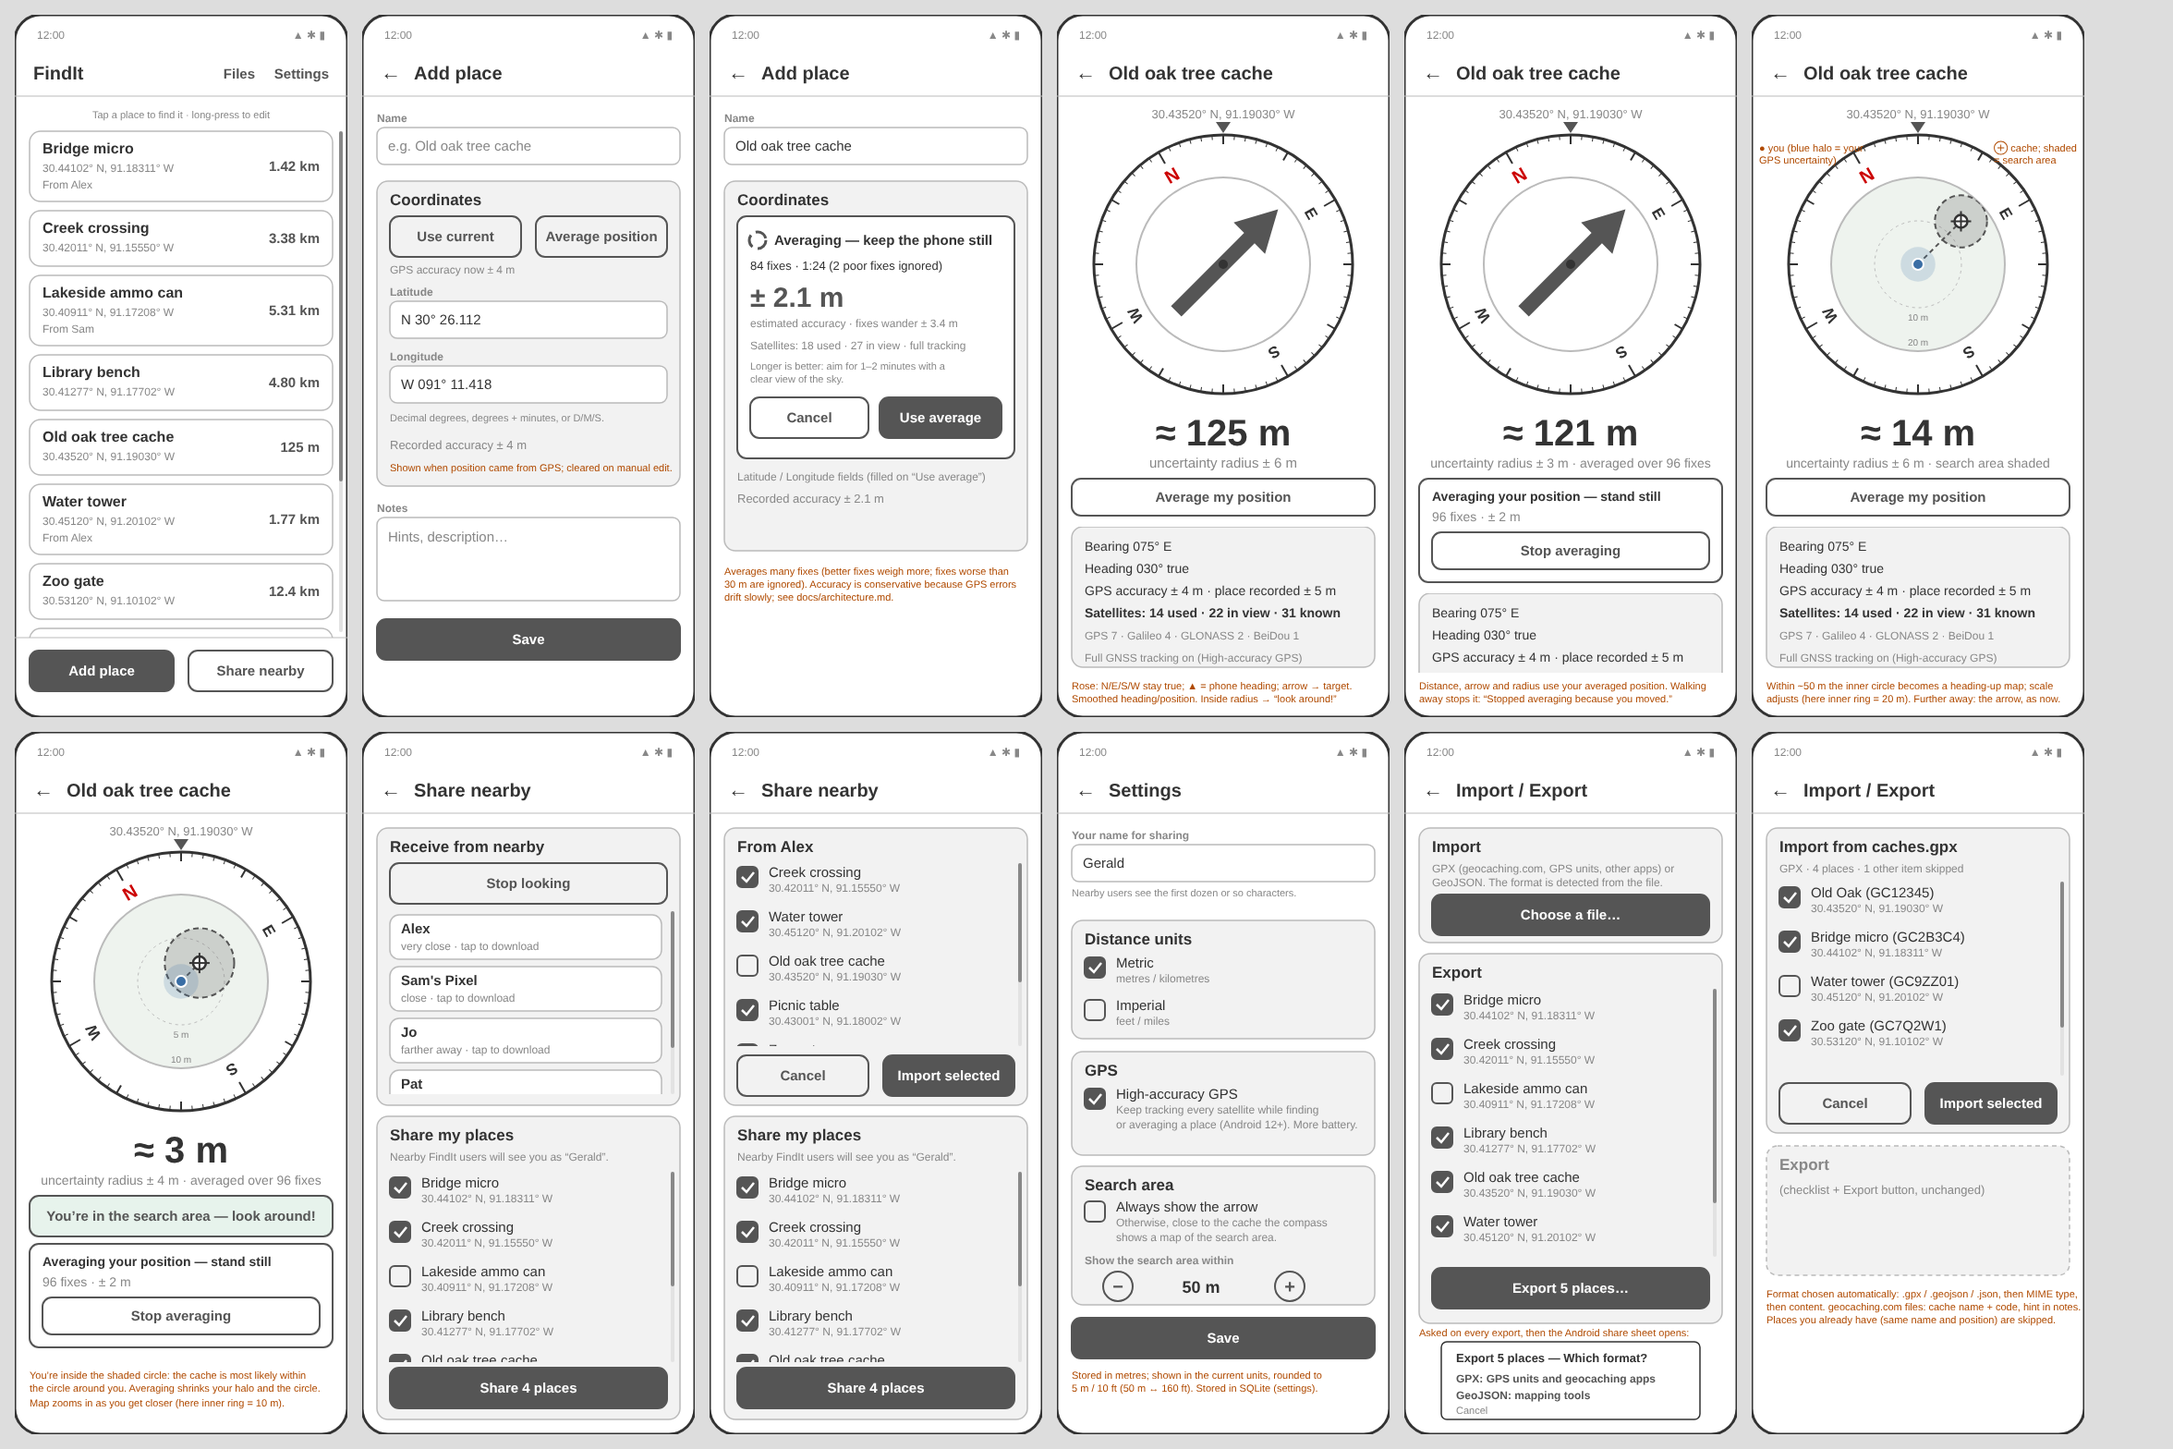
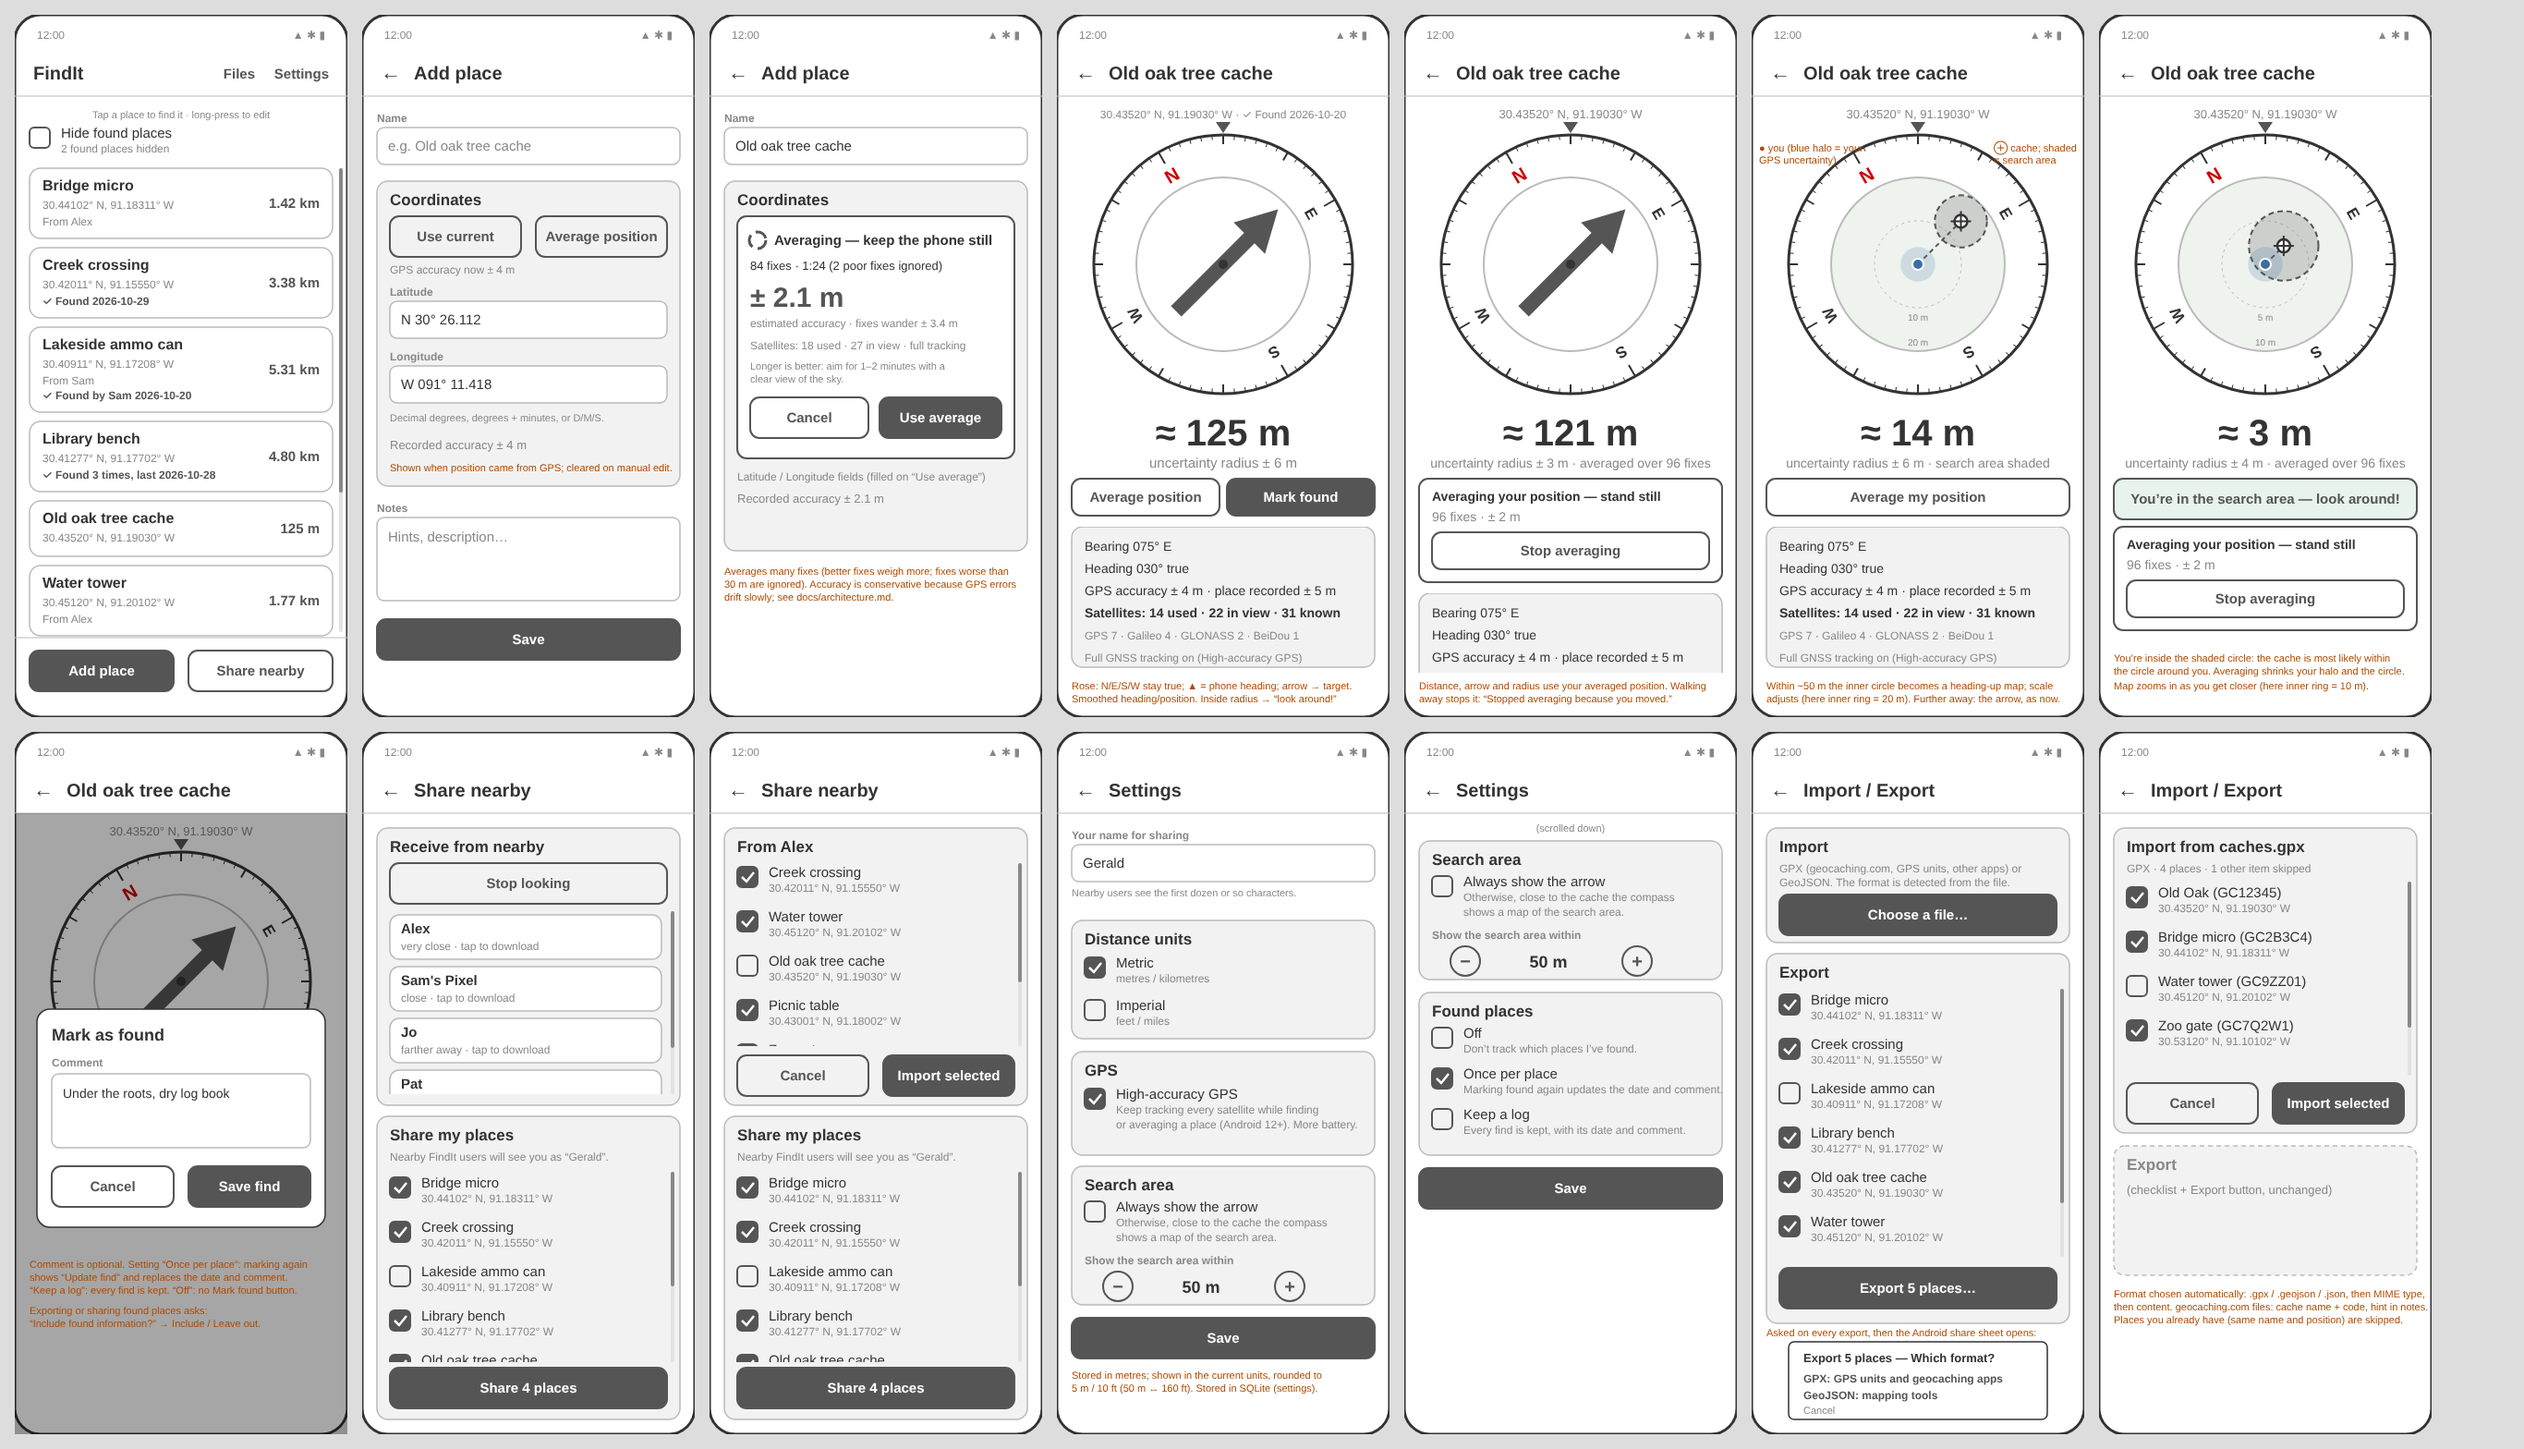
Mark found: wireframes (01, 03, 03e, 06b) and docs
Claude-Session: https://claude.ai/code/session_01AERTiBvDaiu9xFsPWQSBgk

Changed region(s): [[0.0, 0.0, 0.9622, 1.0]]

diff --git a/docs/wireframes/generate_wireframes.py b/docs/wireframes/generate_wireframes.py
@@ -107,29 +107,30 @@ def places():
     s = Screen("FindIt", header_right="Settings", back=False)
     s.header_extra = "Files"
     s.text(W / 2, 112, "Tap a place to find it · long-press to edit", 11, MUTED, anchor="middle")
+    s.checkbox(16, 122, "Hide found places", "2 found places hidden", False)
     rows = [
-        ("Bridge micro", "30.44102° N, 91.18311° W", "From Alex", "1.42 km"),
-        ("Creek crossing", "30.42011° N, 91.15550° W", None, "3.38 km"),
-        ("Lakeside ammo can", "30.40911° N, 91.17208° W", "From Sam", "5.31 km"),
-        ("Library bench", "30.41277° N, 91.17702° W", None, "4.80 km"),
-        ("Old oak tree cache", "30.43520° N, 91.19030° W", None, "125 m"),
-        ("Water tower", "30.45120° N, 91.20102° W", "From Alex", "1.77 km"),
-        ("Zoo gate", "30.53120° N, 91.10102° W", None, "12.4 km"),
-        ("Zydeco park", "30.52011° N, 91.12550° W", None, "13.0 km"),
+        ("Bridge micro", "30.44102° N, 91.18311° W", "From Alex", None, "1.42 km"),
+        ("Creek crossing", "30.42011° N, 91.15550° W", None, "✓ Found 2026-10-29", "3.38 km"),
+        ("Lakeside ammo can", "30.40911° N, 91.17208° W", "From Sam", "✓ Found by Sam 2026-10-20", "5.31 km"),
+        ("Library bench", "30.41277° N, 91.17702° W", None, "✓ Found 3 times, last 2026-10-28", "4.80 km"),
+        ("Old oak tree cache", "30.43520° N, 91.19030° W", None, None, "125 m"),
+        ("Water tower", "30.45120° N, 91.20102° W", "From Alex", None, "1.77 km"),
+        ("Zoo gate", "30.53120° N, 91.10102° W", None, None, "12.4 km"),
     ]
-    y = 126
-    s.clip_start("places", 0, 120, W, H - 86 - 120)
-    for name, coords, src, dist in rows:
-        h = 76 if src else 60
+    y = 166
+    s.clip_start("places", 0, 160, W, H - 86 - 160)
+    for name, coords, src, found, dist in rows:
+        extra = [x for x in (src, found) if x]
+        h = 60 + 16 * len(extra)
         s.rect(16, y, W - 32, h, fill="#fff", r=12)
         s.text(30, y + 24, name, 16, weight="bold")
         s.text(30, y + 44, coords, 12, MUTED)
-        if src:
-            s.text(30, y + 62, src, 12, MUTED)
+        for i, line in enumerate(extra):
+            s.text(30, y + 62 + 16 * i, line, 12, ACCENT if line.startswith("✓") else MUTED, "bold" if line.startswith("✓") else "normal")
         s.text(W - 30, y + h / 2 + 5, dist, 15, ACCENT, "bold", "end")
         y += h + 10
     s.clip_end()
-    s.scrollbar(W - 9, 126, H - 86 - 132, 0.7)
+    s.scrollbar(W - 9, 166, H - 86 - 172, 0.7)
     s.add(f"<line x1='0' y1='{H-86}' x2='{W}' y2='{H-86}' stroke='{LINE}'/>")
     s.button(16, H - 72, 156, "Add place")
     s.button(188, H - 72, 156, "Share nearby", filled=False)
@@ -315,15 +316,36 @@ def compass_in_search_area():
 
 def compass():
     s = Screen("Old oak tree cache")
-    s.text(W / 2, 112, "30.43520° N, 91.19030° W", 13, MUTED, anchor="middle")
+    s.text(W / 2, 112, "30.43520° N, 91.19030° W · ✓ Found 2026-10-20", 12, MUTED, anchor="middle")
     s.add(compass_svg(W / 2, 270, 140, heading=30, bearing=75))
     s.text(W / 2, 466, "≈ 125 m", 40, INK, "bold", "middle")
     s.text(W / 2, 490, "uncertainty radius ± 6 m", 15, MUTED, anchor="middle")
-    s.button(16, 502, W - 32, "Average my position", filled=False, h=40)
+    s.button(16, 502, 160, "Average position", filled=False, h=40)
+    s.button(184, 502, W - 200, "Mark found", h=40)
     compass_details(s, 554)
     s.note(16, 730, "Rose: N/E/S/W stay true; ▲ = phone heading; arrow → target.")
     s.note(16, 744, "Smoothed heading/position. Inside radius → “look around!”")
     s.render("03-compass")
+
+
+def compass_mark_found():
+    s = Screen("Old oak tree cache")
+    s.text(W / 2, 112, "30.43520° N, 91.19030° W", 13, MUTED, anchor="middle")
+    s.add(compass_svg(W / 2, 270, 140, heading=30, bearing=75))
+    s.add(f"<rect x='0' y='88' width='{W}' height='{H-88}' fill='#000' fill-opacity='0.35'/>")
+    s.rect(24, 300, W - 48, 236, fill="#fff", stroke=INK, r=14)
+    s.text(40, 334, "Mark as found", 18, weight="bold")
+    s.text(40, 362, "Comment", 12, MUTED, "bold")
+    s.rect(40, 370, W - 80, 80, fill="#fff")
+    s.text(52, 396, "Under the roots, dry log book", 14)
+    s.button(40, 470, 132, "Cancel", filled=False)
+    s.button(188, 470, 132, "Save find")
+    s.note(16, 580, "Comment is optional. Setting “Once per place”: marking again")
+    s.note(16, 594, "shows “Update find” and replaces the date and comment.")
+    s.note(16, 608, "“Keep a log”: every find is kept. “Off”: no Mark found button.")
+    s.note(16, 630, "Exporting or sharing found places asks:")
+    s.note(16, 644, "“Include found information?” → Include / Leave out.")
+    s.render("03e-compass-mark-found")
 
 
 def compass_averaging():
@@ -401,6 +423,27 @@ def receive():
     s.button(188, 350, 142, "Import selected")
     share_section(s, 416, 744, "share-list-2")
     s.render("05-share-import")
+
+
+def settings_more():
+    s = Screen("Settings")
+    s.text(W / 2, 108, "(scrolled down)", 11, MUTED, anchor="middle")
+    s.rect(16, 118, W - 32, 150, fill=FILL, r=12)
+    s.text(30, 144, "Search area", 17, weight="bold")
+    s.checkbox(30, 156, "Always show the arrow", "Otherwise, close to the cache the compass", False)
+    s.text(64, 199, "shows a map of the search area.", 12, MUTED)
+    s.text(30, 224, "Show the search area within", 12, MUTED, "bold")
+    for x, sym in ((44, "−"), (230, "+")):
+        s.add(f"<circle cx='{x+22}' cy='248' r='16' fill='none' stroke='{ACCENT}' stroke-width='2'/>")
+        s.text(x + 22, 255, sym, 20, ACCENT, "bold", "middle")
+    s.text(156, 255, "50 m", 18, weight="bold", anchor="middle")
+    s.rect(16, 282, W - 32, 176, fill=FILL, r=12)
+    s.text(30, 308, "Found places", 17, weight="bold")
+    s.checkbox(30, 320, "Off", "Don’t track which places I’ve found.", False)
+    s.checkbox(30, 364, "Once per place", "Marking found again updates the date and comment.", True)
+    s.checkbox(30, 408, "Keep a log", "Every find is kept, with its date and comment.", False)
+    s.button(16, 472, W - 32, "Save")
+    s.render("06b-settings-more")
 
 
 def files():
@@ -489,6 +532,6 @@ def settings():
 
 
 if __name__ == "__main__":
-    for fn in (places, place, averaging, compass, compass_averaging, compass_search_area, compass_in_search_area, share, receive, settings, files, files_import):
+    for fn in (places, place, averaging, compass, compass_averaging, compass_search_area, compass_in_search_area, compass_mark_found, share, receive, settings, settings_more, files, files_import):
         fn()
     print("wrote", sorted(p.name for p in OUT.glob("*.svg")))

diff --git a/docs/wireframes.md b/docs/wireframes.md
@@ -12,7 +12,10 @@ Orange text is annotation, not UI.
 The list of known places, sorted by name, with the distance from your current GPS fix.
 Tap a place to open the compass; long-press it to edit or delete. Places received from
 someone else show who they came from. The list scrolls when there are more places than fit;
-the **Add place** / **Share nearby** buttons stay fixed at the bottom. **Files** (header) opens
+the **Add place** / **Share nearby** buttons stay fixed at the bottom. Found places show a
+✓ line ("Found 2026-10-29", "Found 3 times, last …", or "Found by Sam …" for someone else's
+find). **Hide found places** hides the ones *you've* found and says how many are hidden; the
+choice is remembered. Neither appears when Settings → Found places is **Off**. **Files** (header) opens
 Import / Export.
 
 ![Places](wireframes/01-places.svg)
@@ -50,6 +53,15 @@ Fixes worse than 30 m are ignored.
 - Heading and position are smoothed over a few seconds, so the rose and the distance don't jitter.
 
 ![Compass](wireframes/03-compass.svg)
+
+## 3e. Compass: mark found
+
+**Mark found** asks for an optional comment, then records the find with today's date; the
+compass shows "✓ Found <date>" and the comment. With **Once per place**, marking again shows
+"Update find" and replaces the date and comment; with **Keep a log**, every find is kept.
+Exporting or sharing places that have been found asks **Include found information?**
+
+![Mark found](wireframes/03e-compass-mark-found.svg)
 
 ## 3b. Compass: averaging my position
 
@@ -130,3 +142,8 @@ area**: the distance at which the compass switches from the arrow to the search-
 units), or **Always show the arrow**.
 
 ![Settings](wireframes/06-settings.svg)
+
+Further down: **Found places**: Off, Once per place (default), or Keep a log. Switching from a
+log to "once" keeps all entries; the latest one is shown.
+
+![Settings, scrolled](wireframes/06b-settings-more.svg)

diff --git a/docs/architecture.md b/docs/architecture.md
@@ -57,7 +57,22 @@ CREATE TABLE locations (
   created_at INTEGER NOT NULL           -- ms since epoch
 );
 CREATE TABLE settings (key TEXT PRIMARY KEY NOT NULL, value TEXT NOT NULL);
+-- v2
+CREATE TABLE finds (
+  id INTEGER PRIMARY KEY AUTOINCREMENT,
+  place_id INTEGER NOT NULL,           -- deleted together with its place
+  found_at INTEGER NOT NULL,           -- ms since epoch
+  comment TEXT NOT NULL DEFAULT '',
+  finder TEXT NOT NULL DEFAULT ''      -- '' = me, otherwise the FindIt user it came from
+);
 ```
+
+Finds (`src/db/finds.ts`): in **once** mode, marking again updates my latest find; in **log**
+mode a find is added. Finds travel in exports and Bluetooth sharing only when the user says so:
+GPX uses `<sym>Geocache Found</sym>` plus `<findit:find time>` (comment, finder) extensions;
+GeoJSON a `finds` list; Bluetooth items an `f` array (oldest dropped first to fit). Imported
+finds marked as the sender's own are attributed to the sender (Bluetooth) or kept as mine (a
+file, e.g. my own export).
 
 Migrations live in `source/src/db/schema.ts` and are tracked with `PRAGMA user_version`.
 To change the schema, append a new migration to the list; never edit an old one.
